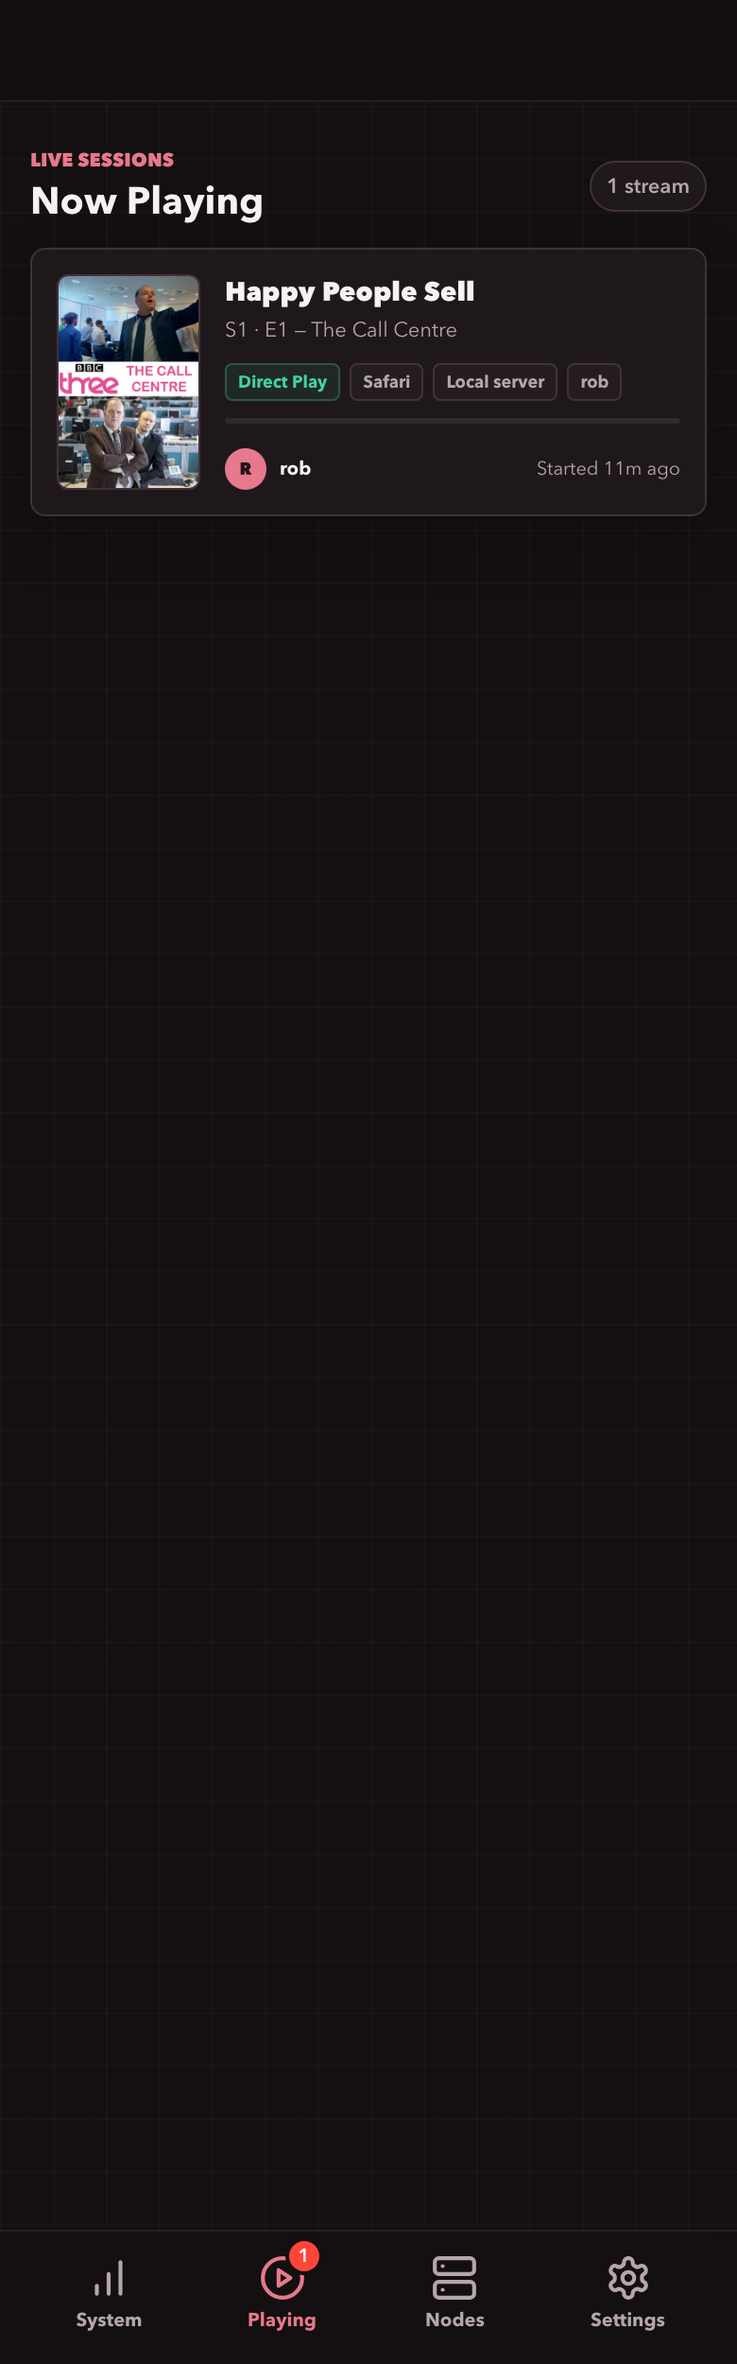
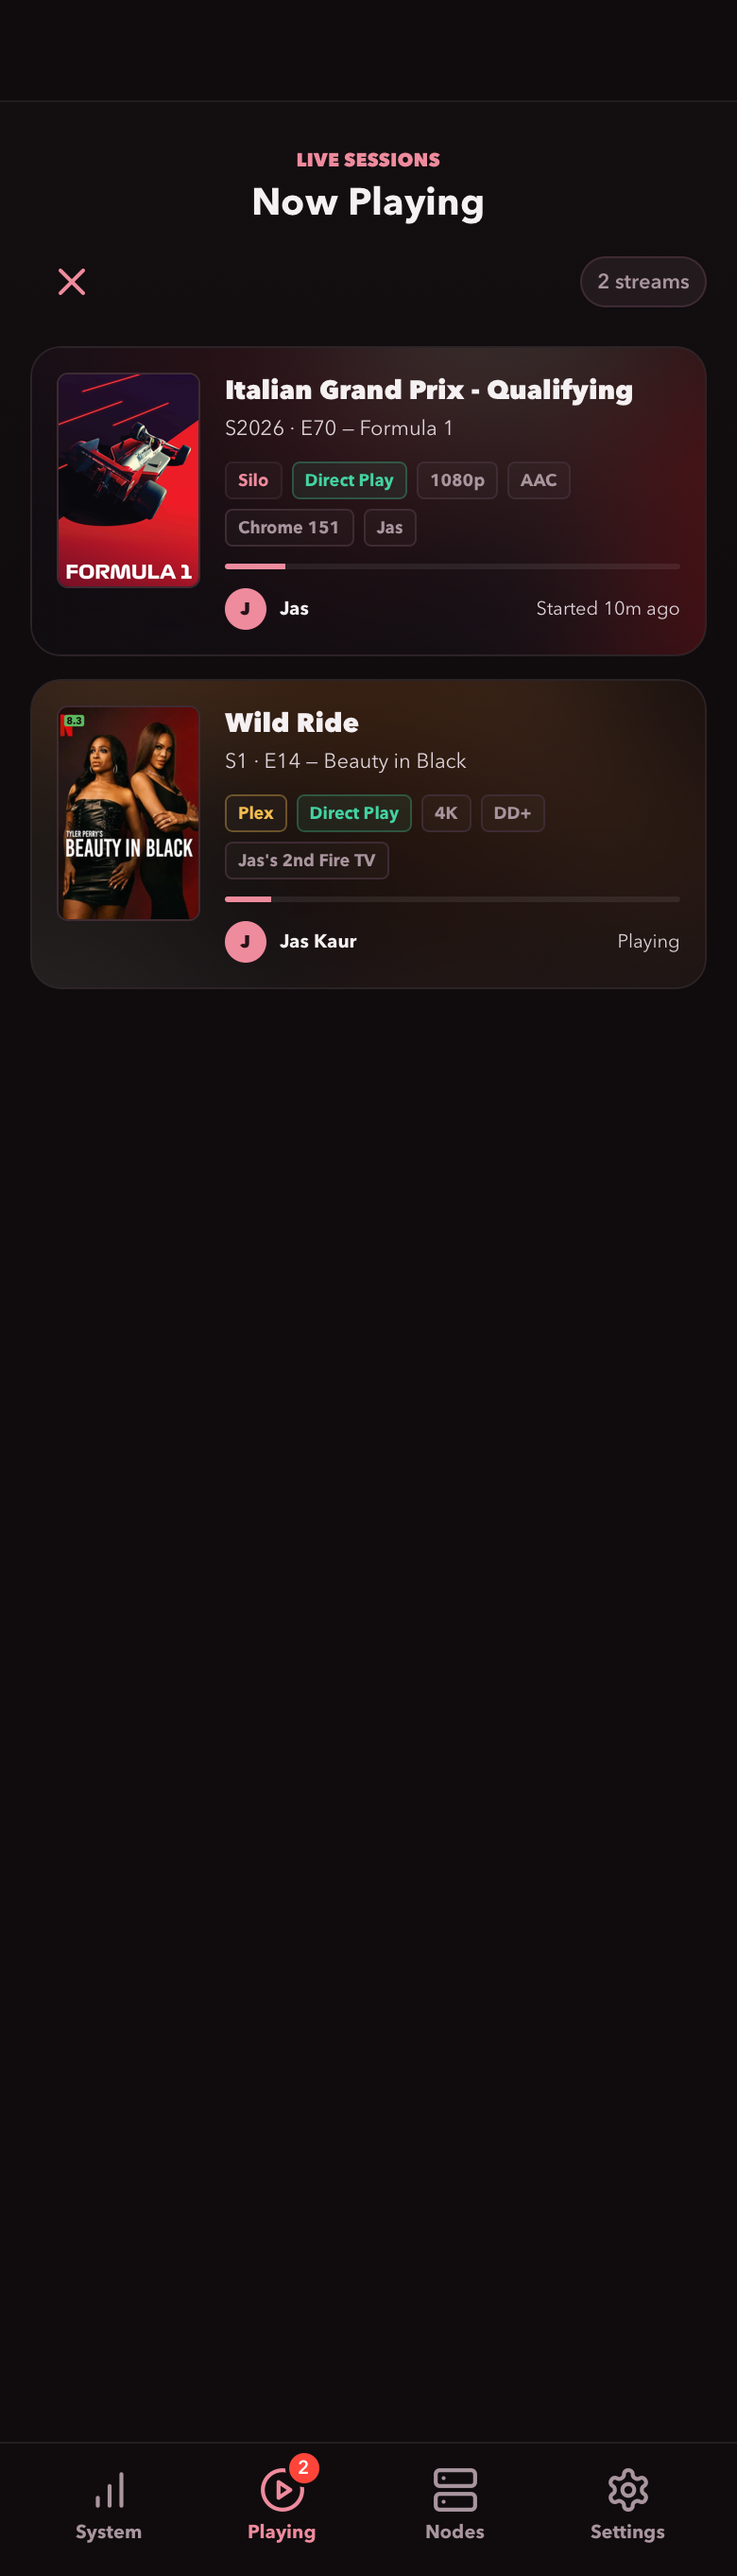
Refresh app screenshots and document playback administration

diff --git a/README.md b/README.md
@@ -4,7 +4,7 @@ A low-overhead, mobile-first wallboard for Silo CPU, memory, network bandwidth, 
 
 ## Screenshots
 
-Mobile views of a live Silo server.
+Mobile views captured from the current UI using live server data and a read-only settings preview. No playback was terminated during capture.
 
 | System | Playing |
 | --- | --- |
@@ -13,6 +13,10 @@ Mobile views of a live Silo server.
 | Nodes | Settings |
 | --- | --- |
 | <img src="docs/images/nodes.png" alt="Nodes view with health, routed streams, jobs, and resource usage" width="280"> | <img src="docs/images/settings.png" alt="System settings with item ordering, graph height, and visibility controls" width="280"> |
+
+| Playback selection | Transcoder settings |
+| --- | --- |
+| <img src="docs/images/playback-selection.png" alt="Playing view with session selection circles and the batch Terminate button" width="280"> | <img src="docs/images/transcoder.png" alt="Transcoder settings with hardware acceleration, tone mapping, and buffer controls" width="280"> |
 
 ## Run with Docker Compose
 
@@ -109,9 +113,32 @@ The monitor reads `/status/sessions` every 15 seconds while the page is visible,
 
 The Playing badge counts sessions from both sources. Plex sessions do not affect Silo node routing or job counts. If either playback source fails, the other remains visible with an outage notice; unavailable sessions are removed until the source recovers. Leave both variables blank to disable Plex. Protect the monitor behind your existing authenticated proxy because it exposes playback activity and posters.
 
+## Terminate playback
+
+In **Playing**, press the cross icon (**Select sessions to terminate**) to reveal selection circles. Select one or more Silo or Plex sessions, then press **Terminate (N)**. The request is sent immediately, with **no confirmation dialog**. Press the cross again or Escape to leave selection mode without stopping anything.
+
+Each selected session receives its own termination request. Cards show pending, requested, or failed status independently; failed selections remain available for retry. Accepted requests are not proof that playback has ended: the card remains until the session disappears from a subsequent refresh. If a request times out or cannot be confirmed, check playback before retrying. Sessions without a usable termination identifier cannot be selected.
+
+Silo termination uses its admin session-termination API; Plex uses its session-termination endpoint and the configured server-owner token. Server support and sufficient permissions are required. Credentials stay on the backend. Anyone with access to Siloscope can terminate playback, so restrict dashboard access to administrators through an authenticated reverse proxy.
+
 ## Transcoder settings
 
 Settings > Transcoder edits Silo's server-wide transcoding configuration: transcoding and 4K permissions, hardware acceleration, hardware/software HDR tone mapping, throttling and buffers, and playback execution/egress routing. Chapter settings, GPU device selection, and FFmpeg/transcode directory paths are excluded.
+
+| Control | Available values |
+| --- | --- |
+| Transcoding | Enabled or disabled |
+| Allow 4K transcoding | Enabled or disabled |
+| Hardware acceleration | Auto, Intel Quick Sync (QSV), VA-API, NVIDIA NVENC, VideoToolbox (macOS), or Software |
+| Hardware HDR tone mapping | Enabled or disabled |
+| Software HDR tone mapping | Enabled or disabled |
+| Throttle transcoding | Enabled or disabled |
+| Buffer ahead | Seconds, 0 or greater |
+| Back buffer | Seconds, either 0 or at least 120 |
+| Direct play, remux, and video transcode egress | Prefer proxy, Proxy only, Prefer API server, or API server only; configured separately for each playback method |
+| Remux and video transcode execution | Prefer worker, Worker only, Prefer API server, or API server only; configured separately for each playback method |
+
+Execution controls where processing runs; egress controls where playback is delivered from. Hardware modes depend on the capabilities of the Silo host or execution node. Silo validates changes and reports unsupported values.
 
 Toggles and dropdowns save automatically on change. Numeric fields save after a short typing pause or when committed, provided the value is valid. Rejected changes restore the previous value; unconfirmed saves require reloading settings before further edits. Display-preference resets never change Silo configuration. Restart notices come from Silo: saving is immediate, but settings marked as requiring a restart do not take effect until Silo is restarted. Saving never automatically restarts it. Missing fields are disabled rather than assigned guessed defaults. The Silo version must support the effective-settings, restart-keys, and batch settings APIs.
 
